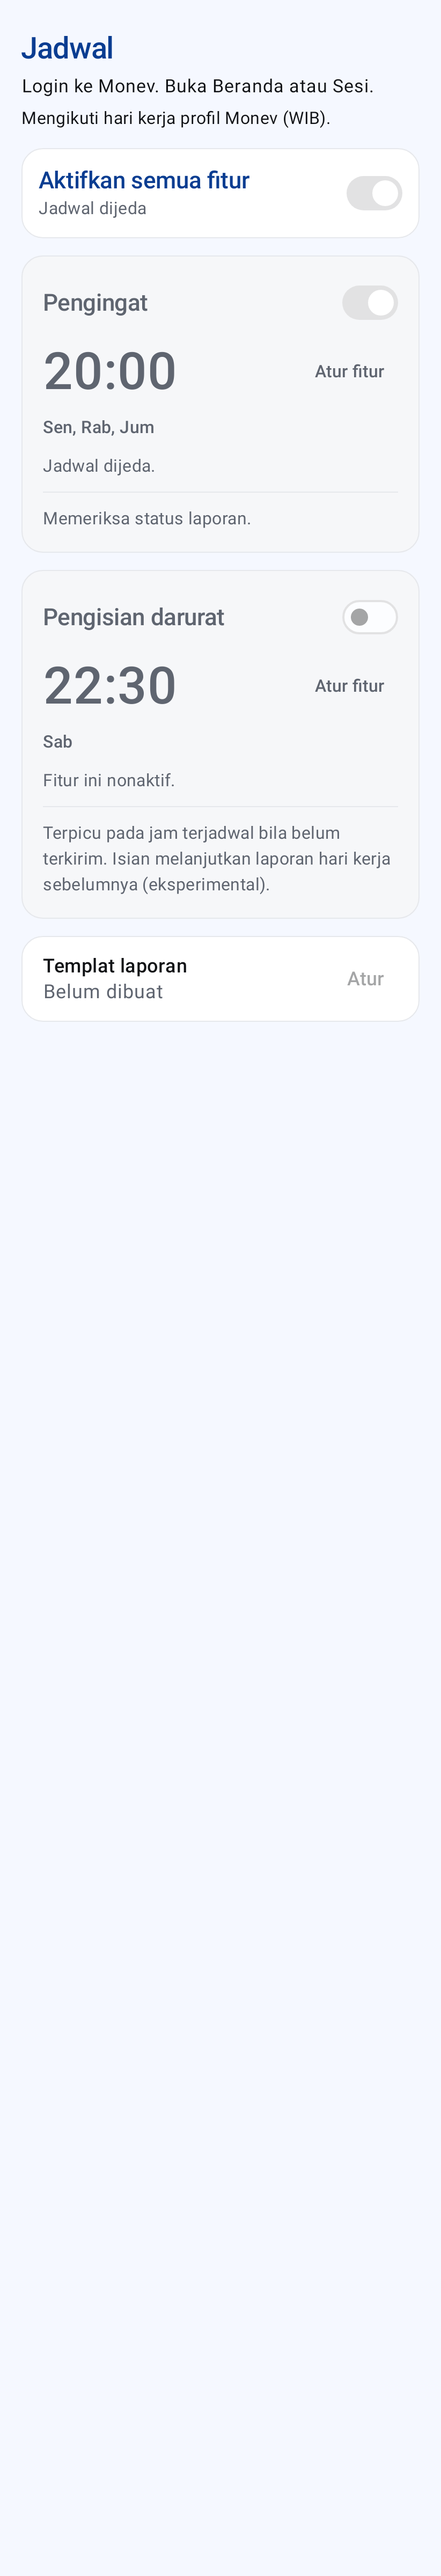
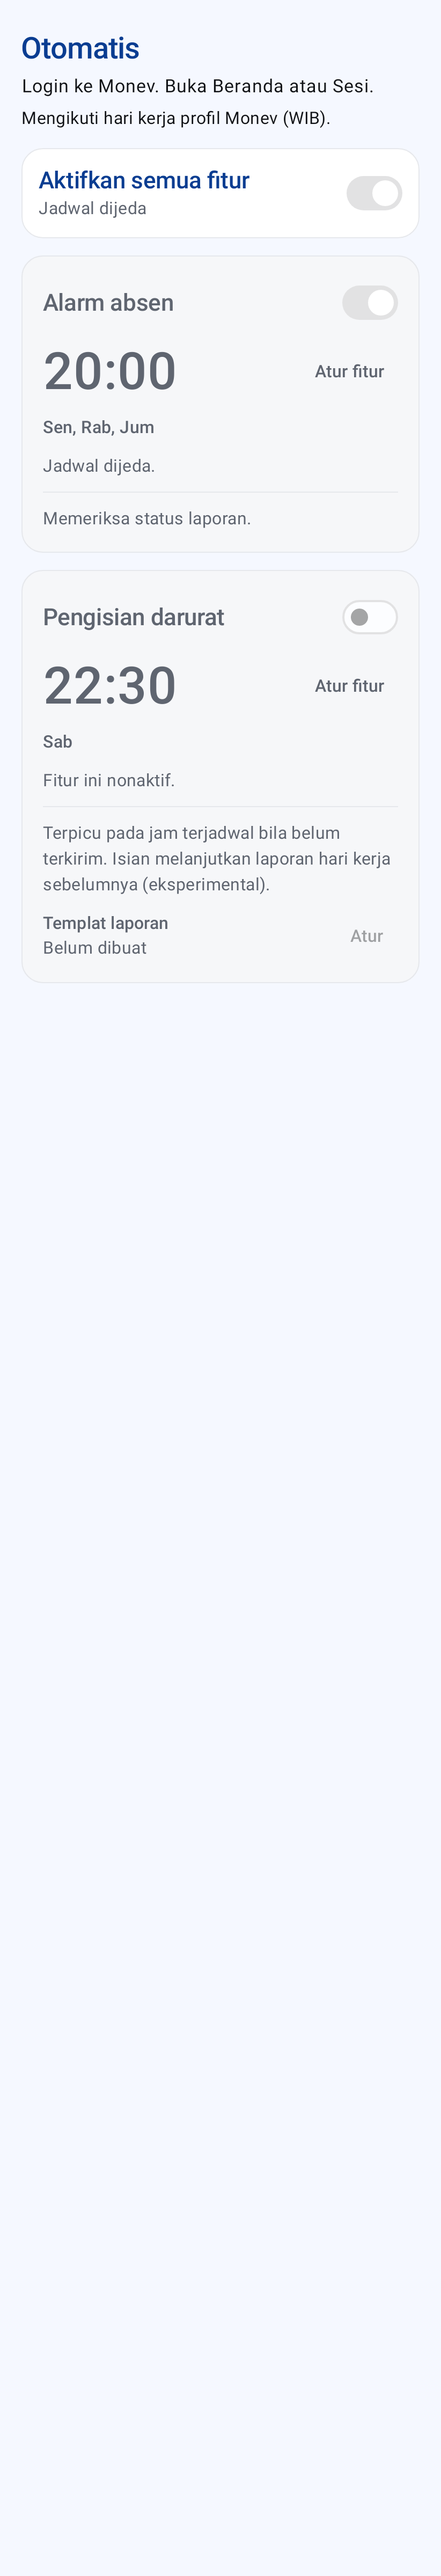
Rename Jadwal/Pengingat to Otomatis/Alarm absen and group Templat inside Pengisian darurat

diff --git a/app/src/main/java/id/ohmymonev/android/ui/ScheduleTab.kt b/app/src/main/java/id/ohmymonev/android/ui/ScheduleTab.kt
@@ -193,7 +193,7 @@ fun ScheduleTab(modifier: Modifier = Modifier) {
         verticalArrangement = Arrangement.spacedBy(16.dp),
     ) {
         Column(verticalArrangement = Arrangement.spacedBy(6.dp)) {
-            Text("Jadwal", style = MaterialTheme.typography.headlineMedium)
+            Text("Otomatis", style = MaterialTheme.typography.headlineMedium)
             if (!ready) Text(readiness.missing() + ". Buka Beranda atau Sesi.")
             Text(
                 "Mengikuti hari kerja profil Monev (WIB).",
@@ -252,7 +252,7 @@ fun ScheduleTab(modifier: Modifier = Modifier) {
         }
 
         AlarmCard(
-            title = "Pengingat",
+            title = "Alarm absen",
             time = current.reminderTime,
             days = workingDays?.let { current.reminderDays intersect it } ?: current.reminderDays,
             enabled = current.reminderEnabled,
@@ -283,6 +283,28 @@ fun ScheduleTab(modifier: Modifier = Modifier) {
                 ScheduleSettings.ContentSource.AUTOMATIC ->
                     "Terpicu pada jam terjadwal bila belum terkirim. Isian melanjutkan laporan hari kerja sebelumnya (eksperimental)."
             },
+            extraContent = {
+                Row(
+                    modifier = Modifier.fillMaxWidth().testTag("template-card"),
+                    verticalAlignment = Alignment.CenterVertically,
+                ) {
+                    Column(modifier = Modifier.weight(1f)) {
+                        Text("Templat laporan", style = MaterialTheme.typography.titleSmall)
+                        Text(
+                            if (template == null) "Belum dibuat" else "Siap dipakai",
+                            style = MaterialTheme.typography.bodyMedium,
+                            color = MaterialTheme.colorScheme.onSurfaceVariant,
+                        )
+                    }
+                    TextButton(
+                        onClick = loggedClick("ScheduleTab:618") { editingTemplate = true },
+                        enabled = ready && !modelBusy,
+                        modifier = Modifier.testTag("template-edit"),
+                    ) {
+                        Text("Atur", fontSize = 16.sp)
+                    }
+                }
+            },
             actionLabel = if (modelReady) "Hapus file otomatis" else null,
             actionEnabled = ready && !modelBusy,
             showActionWhenInactive = true,
@@ -298,18 +320,12 @@ fun ScheduleTab(modifier: Modifier = Modifier) {
         ) {
             editing = AlarmId.ESCALATION
         }
-
-        TemplateCard(
-            status = if (template == null) "Belum dibuat" else "Siap dipakai",
-            enabled = ready && !modelBusy,
-            onOpen = { editingTemplate = true },
-        )
     }
 
     if (ready) editing?.let { which ->
         AlarmEditor(
             title = when (which) {
-                AlarmId.REMINDER -> "Pengingat"
+                AlarmId.REMINDER -> "Alarm absen"
                 AlarmId.ESCALATION -> "Pengisian darurat"
             },
             initialTime = when (which) {
@@ -333,6 +349,7 @@ fun ScheduleTab(modifier: Modifier = Modifier) {
             modelProgress = modelProgress,
             modelError = modelError,
             profileDays = workingDays,
+            onOpenTemplate = if (which == AlarmId.ESCALATION) { { editingTemplate = true } } else null,
             onDownloadModel = { confirmDownload = true },
             onCancelDownload = { ModelTransferController.cancelDownload() },
             onDismiss = { editing = null },
@@ -444,7 +461,7 @@ fun ScheduleTab(modifier: Modifier = Modifier) {
             title = { Text("Matikan kedua fitur?") },
             text = {
                 Text(
-                    "Pengingat dan Pengisian darurat dimatikan. Anda tetap dapat mengisi melalui Beranda.",
+                    "Alarm absen dan Pengisian darurat dimatikan. Anda tetap dapat mengisi melalui Beranda.",
                 )
             },
             confirmButton = {
@@ -496,6 +513,7 @@ internal fun AlarmEditor(
     modelProgress: Int? = null,
     modelError: String? = null,
     profileDays: Set<DayOfWeek>? = null,
+    onOpenTemplate: (() -> Unit)? = null,
     onDownloadModel: (() -> Unit)? = null,
     onCancelDownload: (() -> Unit)? = null,
     onDismiss: () -> Unit,
@@ -562,10 +580,9 @@ internal fun AlarmEditor(
                     SourceOption(
                         "Templat saya",
                         selected = source == ScheduleSettings.ContentSource.TEMPLATE,
-                        enabled = templateReady,
                     ) { source = ScheduleSettings.ContentSource.TEMPLATE }
                     SourceOption(
-                        "Otomatis (eksperimen)",
+                        "Otomatis (eksperimental)",
                         selected = source == ScheduleSettings.ContentSource.AUTOMATIC,
                     ) { source = ScheduleSettings.ContentSource.AUTOMATIC }
                     Text(
@@ -580,11 +597,17 @@ internal fun AlarmEditor(
                     )
                     if (templateBlocked) {
                         Text(
-                            "Templat belum lengkap. Buka Templat laporan.",
+                            "Templat belum lengkap.",
                             fontSize = 18.sp,
                             lineHeight = 26.sp,
                             color = MaterialTheme.colorScheme.error,
                         )
+                    }
+                    if (source == ScheduleSettings.ContentSource.TEMPLATE && onOpenTemplate != null) {
+                        androidx.compose.material3.OutlinedButton(
+                            onClick = loggedClick("ScheduleTab:editorOpenTemplate", onOpenTemplate),
+                            modifier = Modifier.fillMaxWidth().testTag("editor-open-template"),
+                        ) { Text(if (templateReady) "Ubah templat" else "Atur templat", fontSize = 18.sp) }
                     }
                     if (source == ScheduleSettings.ContentSource.AUTOMATIC && !autoReady) {
                         HorizontalDivider(color = MaterialTheme.colorScheme.outlineVariant)
@@ -637,30 +660,6 @@ internal fun AlarmEditor(
 }
 
 private enum class AlarmId { REMINDER, ESCALATION }
-
-/** Kartu ringkas templat: status satu baris + tombol Atur (editor dalam dialog). */
-@Composable
-private fun TemplateCard(status: String, enabled: Boolean, onOpen: () -> Unit) {
-    Surface(
-        modifier = Modifier.fillMaxWidth().testTag("template-card"),
-        shape = RoundedCornerShape(20.dp),
-        color = MaterialTheme.colorScheme.surface,
-        border = BorderStroke(1.dp, MaterialTheme.colorScheme.outlineVariant),
-    ) {
-        Row(
-            modifier = Modifier.padding(horizontal = 20.dp, vertical = 16.dp),
-            verticalAlignment = Alignment.CenterVertically,
-        ) {
-            Column(modifier = Modifier.weight(1f)) {
-                Text("Templat laporan", style = MaterialTheme.typography.titleMedium)
-                Text(status, fontSize = 18.sp, color = MaterialTheme.colorScheme.onSurfaceVariant)
-            }
-            TextButton(onClick = loggedClick("ScheduleTab:618", onOpen), enabled = enabled, modifier = Modifier.testTag("template-edit")) {
-                Text("Atur", fontSize = 18.sp)
-            }
-        }
-    }
-}
 
 /** Check the report after replacing the date marker, as the delivery path does. */
 internal fun templateIssues(aktivitas: String, pelajaran: String, kendala: String): List<String> {
@@ -794,6 +793,7 @@ private fun AlarmCard(
     controlsEnabled: Boolean,
     paused: Boolean = false,
     detail: String,
+    extraContent: (@Composable () -> Unit)? = null,
     actionLabel: String? = null,
     actionEnabled: Boolean = true,
     showActionWhenInactive: Boolean = false,
@@ -867,6 +867,7 @@ private fun AlarmCard(
                     color = textColor,
                 )
             }
+            extraContent?.invoke()
             if (actionLabel != null && onAction != null && (effective || showActionWhenInactive)) {
                 TextButton(
                     onClick = loggedClick("ScheduleTab:784", onAction),

diff --git a/app/src/test/java/id/ohmymonev/android/UiRenderTest.kt b/app/src/test/java/id/ohmymonev/android/UiRenderTest.kt
@@ -106,7 +106,7 @@ class UiRenderTest {
         }
         if (!masterEnabled || name == "locked-schedule") {
             compose.onNodeWithTag("master-toggle").assertIsNotEnabled()
-            for (title in listOf("Pengingat", "Pengisian darurat")) {
+            for (title in listOf("Alarm absen", "Pengisian darurat")) {
                 compose.onNodeWithTag("alarm-toggle-$title").assertIsNotEnabled()
                 compose.onNodeWithTag("alarm-edit-$title").assertIsNotEnabled()
             }
@@ -118,7 +118,7 @@ class UiRenderTest {
         if (captureTag == null) compose.onAllNodes(isRoot()).onLast().captureRoboImage(output.absolutePath)
         else compose.onNodeWithTag(captureTag).captureRoboImage(output.absolutePath)
         if (captureCards) {
-            listOf("Pengingat", "Pengisian darurat").forEachIndexed { index, title ->
+            listOf("Alarm absen", "Pengisian darurat").forEachIndexed { index, title ->
                 compose.onNodeWithTag("alarm-card-$title")
                     .captureRoboImage(File(root, "screenshots/forge-card-${index + 1}${if (masterEnabled) "" else "-disabled"}${if (fontScale > 1f) "-large-text" else ""}.png").absolutePath)
             }
@@ -161,6 +161,7 @@ class UiRenderTest {
             title = "Pengisian darurat", initialTime = LocalTime.of(22, 30), initialEnabled = true,
             initialDays = setOf(DayOfWeek.SATURDAY, DayOfWeek.SUNDAY),
             initialSource = ScheduleSettings.ContentSource.TEMPLATE, templateReady = true,
+            onOpenTemplate = {},
             onDismiss = {}, onSave = { _, _, _, _ -> },
         )
     }

diff --git a/app/src/main/java/id/ohmymonev/android/engine/PreparedReportService.kt b/app/src/main/java/id/ohmymonev/android/engine/PreparedReportService.kt
@@ -163,7 +163,7 @@ internal class PreparedReportService(
             // Mode templat: tanpa fallback. Templat kosong gagal jelas, bukan melompat ke lanjutan otomatis.
             sourceDate = date
             source = if (template == null) "Templat belum dibuat." else "Dari templat Anda."
-            outcome = if (template == null) GenerationOutcome.Failed(FailureReason.NO_SOURCE_MATERIAL, "Templat belum dibuat. Buka tab Jadwal, kartu Templat laporan.")
+            outcome = if (template == null) GenerationOutcome.Failed(FailureReason.NO_SOURCE_MATERIAL, "Templat belum dibuat. Buka tab Otomatis, kartu Pengisian darurat.")
             else GeneratorPipeline(
                 templates = { ReportDraft(template.aktivitas, template.pelajaran, template.kendala) },
                 history = ReportHistory { null },
@@ -184,7 +184,7 @@ internal class PreparedReportService(
                 source = "Model otomatis belum diunduh."
                 outcome = GenerationOutcome.Failed(
                     FailureReason.NO_SOURCE_MATERIAL,
-                    "Model otomatis belum diunduh. Buka tab Jadwal, Pengisian darurat.")
+                    "File mode otomatis belum diunduh. Buka tab Otomatis, kartu Pengisian darurat.")
             } else {
                 try {
                 val previous = PastReportReader(context).read(date, api, profile)

diff --git a/app/src/test/java/id/ohmymonev/android/schedule/WorkDaysStoreTest.kt b/app/src/test/java/id/ohmymonev/android/schedule/WorkDaysStoreTest.kt
@@ -35,7 +35,7 @@ class WorkDaysStoreTest {
         calendar.save(profile("SATURDAY", "SUNDAY"))
         val state = AlarmScheduler.readArmedState(context, ScheduleSettings(), ZonedDateTime.parse("2026-11-08T12:20:00+07:00[Asia/Jakarta]"))
         assertEquals("2026-11-09T13:00:00Z", state.nextFireISO)
-        assertEquals("Pengingat", state.source)
+        assertEquals("Alarm absen", state.source)
     }
     @Test fun featureDaysRemainAnAdditionalLimitAndAreNotOverwritten() {
         calendar.save(profile("SUNDAY"))

diff --git a/app/src/main/java/id/ohmymonev/android/ui/HomeTab.kt b/app/src/main/java/id/ohmymonev/android/ui/HomeTab.kt
@@ -591,7 +591,7 @@ internal fun HomeTab(
                         title = { Text("Jeda Pengisian darurat malam ini?") },
                         text = {
                             Text(
-                                "Pengingat tetap mengikuti jadwal. Kirim laporan sendiri sebelum 23.59 WIB.",
+                                "Alarm absen tetap mengikuti jadwal. Kirim laporan sendiri sebelum 23.59 WIB.",
                             )
                         },
                         confirmButton = {

diff --git a/app/src/main/java/id/ohmymonev/android/schedule/NotificationFactory.kt b/app/src/main/java/id/ohmymonev/android/schedule/NotificationFactory.kt
@@ -97,7 +97,7 @@ class NotificationFactory(private val context: Context) {
             nextFireISO != null -> "oh-my-monev: jadwal fitur berikutnya" to
                 "$feature · " + formatFire(nextFireISO) + " WIB."
             else -> "oh-my-monev: tidak ada jadwal aktif" to
-                "Periksa pilihan fitur dan hari di Jadwal."
+                "Periksa pilihan fitur dan hari di tab Otomatis."
         }
         return builder(CHANNEL_GUARD)
             .setContentTitle(title)

diff --git a/app/src/test/java/id/ohmymonev/android/engine/PreparedReportServiceTest.kt b/app/src/test/java/id/ohmymonev/android/engine/PreparedReportServiceTest.kt
@@ -240,7 +240,7 @@ class PreparedReportServiceTest {
         useFakeParaphraser = false
         val result = service(session).prepare()
         assertTrue(result.outcome() is GenerationOutcome.Failed)
-        assertTrue(result.issues.single().contains("Model otomatis belum diunduh"))
+        assertTrue(result.issues.single().contains("File mode otomatis belum diunduh"))
         assertEquals(0, logCalls)
     }
 

diff --git a/app/src/main/java/id/ohmymonev/android/ui/AppRoot.kt b/app/src/main/java/id/ohmymonev/android/ui/AppRoot.kt
@@ -32,7 +32,7 @@ private data class TabSpec(val label: String, val icon: ImageVector)
 
 private val tabs = listOf(
     TabSpec("Beranda", Icons.Filled.Home),
-    TabSpec("Jadwal", Icons.Filled.DateRange),
+    TabSpec("Otomatis", Icons.Filled.DateRange),
     TabSpec("Log", Icons.AutoMirrored.Filled.List),
     TabSpec("Sesi", Icons.Filled.Person),
 )

diff --git a/app/src/main/java/id/ohmymonev/android/schedule/AlarmScheduler.kt b/app/src/main/java/id/ohmymonev/android/schedule/AlarmScheduler.kt
@@ -209,7 +209,7 @@ object AlarmScheduler {
     }
 
     private fun featureLabel(key: String): String = when (key) {
-        ScheduleCalculator.KEY_REMINDER -> "Pengingat"
+        ScheduleCalculator.KEY_REMINDER -> "Alarm absen"
         else -> "Pengisian darurat"
     }
 

diff --git a/app/src/test/java/id/ohmymonev/android/ScreenshotCaptureTest.kt b/app/src/test/java/id/ohmymonev/android/ScreenshotCaptureTest.kt
@@ -73,7 +73,7 @@ class ScreenshotCaptureTest {
 
     @Test
     fun beranda() {
-        capture("01-beranda", waitForText = "Pengingat") { HomeTab() }
+        capture("01-beranda", waitForText = "Alarm absen") { HomeTab() }
     }
 
     @Test
